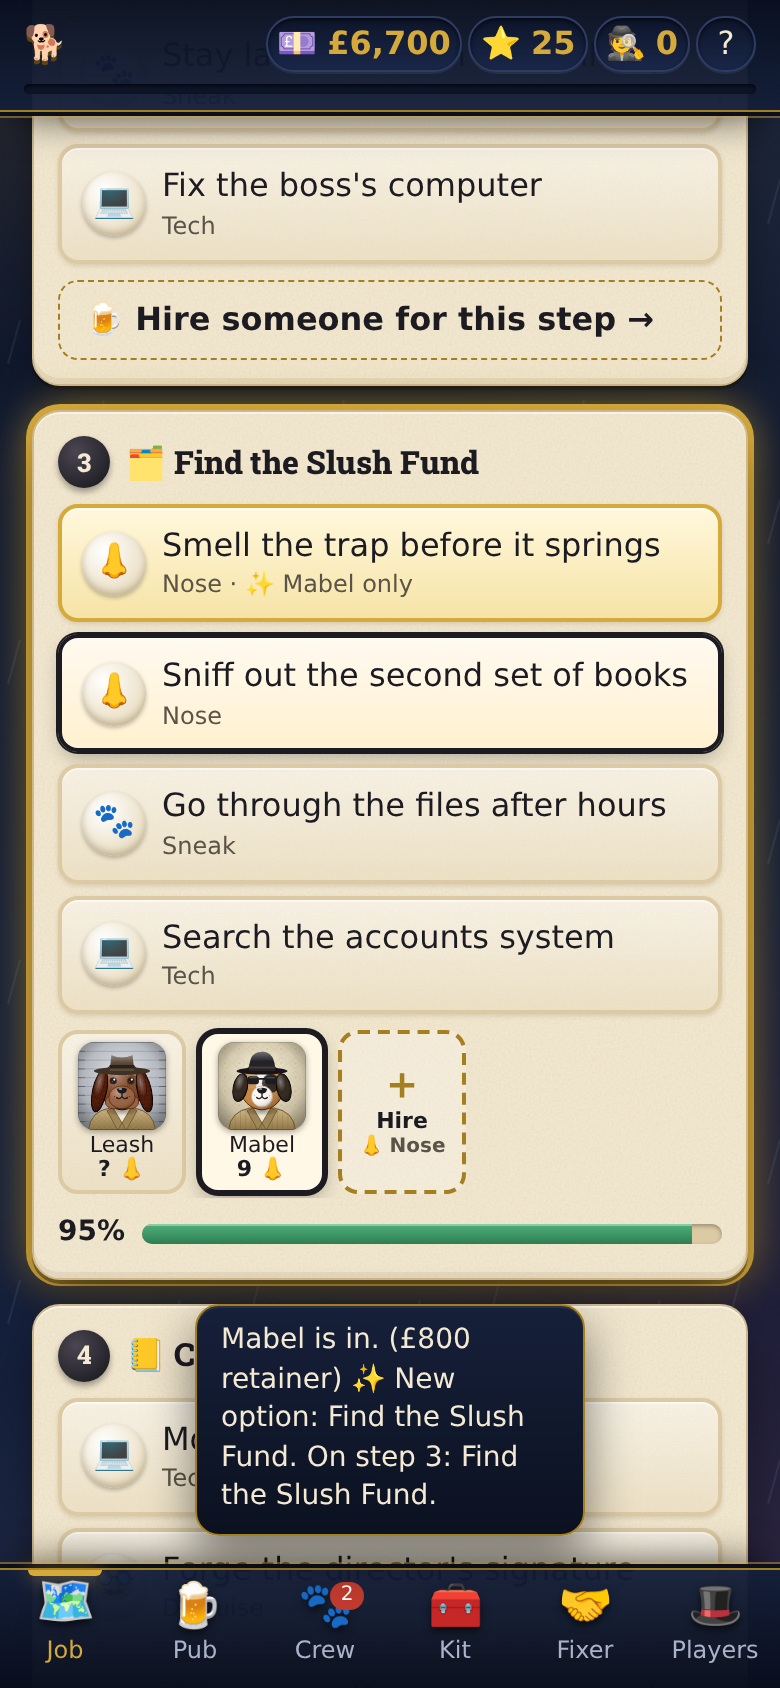
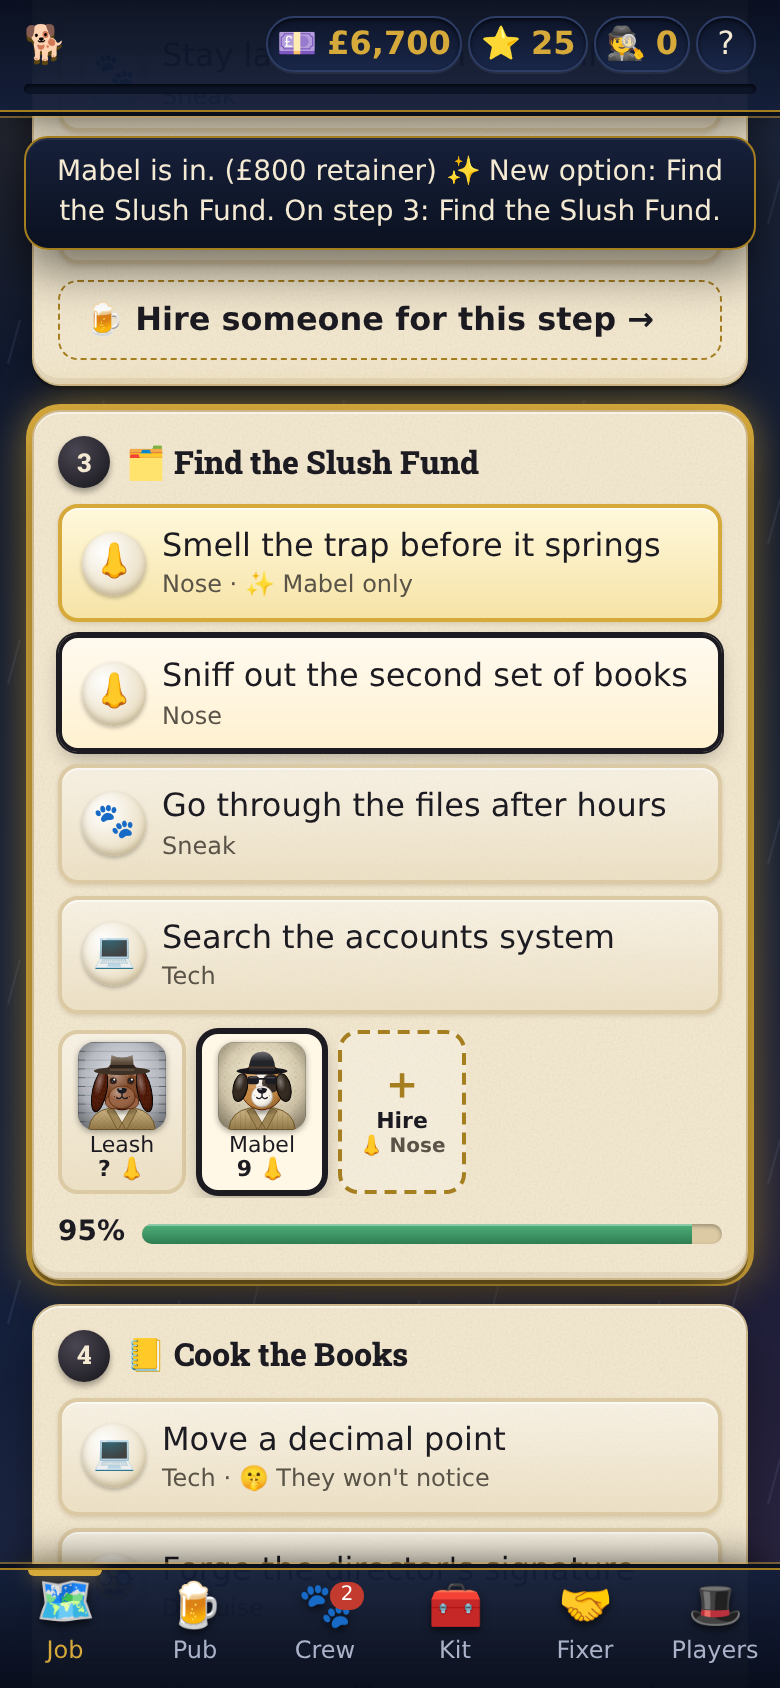
Toasts span the page and drop in under the top bar
They were centred with left: 50%, which capped them at half the screen
width, and sat over the bottom of the page when no sheet was open.

Claude-Session: https://claude.ai/code/session_0119DQBJUjuLkFW8ZZge45qz

Changed region(s): [[0.0308, 0.0616, 0.9846, 0.1848], [0.2154, 0.7701, 0.8, 0.9242]]

diff --git a/styles.css b/styles.css
@@ -234,8 +234,6 @@ p { margin: 0 0 8px; }
 .modal .portrait-big { width: 120px; height: 120px; border-radius: 16px; overflow: hidden; flex: none; box-shadow: 0 0 0 3px var(--ink), 0 6px 14px rgba(0, 0, 0, .4); }
 .pick-list .dog-card { box-shadow: none; border: 2px solid var(--paper-3); }
 .card-preview { display: block; width: 100%; max-width: 360px; margin: 0 auto 12px; border-radius: 14px; box-shadow: var(--shadow); }
-/* With a sheet open, toasts drop in from the top so they never cover its buttons. */
-.modal-open #toast { bottom: auto; top: calc(12px + env(safe-area-inset-top, 0px)); }
 
 /* ---------- compact dog profile */
 .dm-head { display: flex; gap: 12px; align-items: center; }
@@ -495,8 +493,10 @@ button.stat { font: inherit; color: inherit; cursor: pointer; }
 .story-text { font-family: var(--font-quote); font-style: italic; font-size: 16px; line-height: 1.55; margin: 8px 0 16px; }
 
 /* ---------- toast & diagnostics */
-#toast { position: fixed; left: 50%; bottom: 76px; transform: translateX(-50%); z-index: 60; max-width: min(92vw, 500px); pointer-events: none; }
-#toast .t { background: linear-gradient(180deg, #16203a, #0b1120); color: var(--paper); border: 1px solid var(--brass-dark); border-radius: 12px; padding: 8px 12px; margin-top: 6px; box-shadow: inset 0 1px 0 rgba(255, 255, 255, .08), 0 10px 24px rgba(0, 0, 0, .5); font-size: 14px; animation: pop .2s ease-out, fade .4s ease-in 2.4s forwards; }
+/* Toasts drop in just under the top bar, as wide as the page, so they never cover
+   the buttons at the bottom of the screen or of a sheet. */
+#toast { position: fixed; top: calc(62px + env(safe-area-inset-top, 0px)); left: 12px; right: 12px; max-width: 516px; margin: 0 auto; z-index: 60; pointer-events: none; }
+#toast .t { text-align: center; background: linear-gradient(180deg, #16203a, #0b1120); color: var(--paper); border: 1px solid var(--brass-dark); border-radius: 12px; padding: 8px 12px; margin-top: 6px; box-shadow: inset 0 1px 0 rgba(255, 255, 255, .08), 0 10px 24px rgba(0, 0, 0, .5); font-size: 14px; animation: pop .2s ease-out, fade .4s ease-in 2.4s forwards; }
 #toast .t.bad { border-color: var(--red); }
 @keyframes fade { to { opacity: 0; } }
 #diag { position: fixed; top: 4px; left: 4px; z-index: 100; background: rgba(0, 0, 0, .78); color: #7CFC9A; font: 11px/1.3 ui-monospace, Menlo, monospace; padding: 6px 8px; border-radius: 6px; pointer-events: none; max-width: 70vw; white-space: pre-wrap; }

diff --git a/src/version.js b/src/version.js
@@ -1,3 +1,3 @@
 // The game's version, shown in the help panel. Keep package.json's "version" in step
 // (tests/version.test.mjs checks). Bump it with each release to main.
-export const VERSION = '0.16.0';
+export const VERSION = '0.16.1';

diff --git a/notes/progress.md b/notes/progress.md
@@ -92,7 +92,12 @@ report 0 (DOM/SVG renderer), `renderer` is the WebGL renderer string, `contextLo
 - Job board venue illustrations; title skyline; blueprint with corridors, walked route, pulsing current room, red alarm wash, siren lights when the police arrive, and a drawing title block.
 - Before/after captures: `notes/captures/before-gfx/` vs `notes/captures/`.
 
-## Crew chemistry, rescues, out of town, recruit to case (latest, 0.16.0)
+## Toasts up top (latest, 0.16.1)
+
+- Toasts were centred with `left: 50%`, which capped their width at half the screen (195px on a phone, four lines for a hire), and sat at the bottom unless a sheet was open. Now they span the page column (max 516px) and always drop in just under the top bar, so they never cover the bottom buttons or a sheet's actions.
+- Smoke 1c checks the toast is page-wide and in the top half. Verified at 390x844, 375x667 and 1024x768 (hire from a profile, hire for a step, recruit to case). Not verified on a real notched phone (safe-area inset is in the offset).
+
+## Crew chemistry, rescues, out of town, recruit to case (0.16.0)
 - **Bonds** (`src/bonds.js`, `state.bonds`, keyed by sorted dog-id pair): start where outfits put them (same outfit +15, rival outfits -30, else 0); after each job every pair on it moves by the outcome (clean +8 … bust -6) plus 2 per step pulled off and -3 per step bungled (capped ±15); grassing or doing a runner on your mates sets -35; going back for a mate +25 (+30 if it worked). Aftermath lines for pairs crossing into "get on well" (25+) or "aren't speaking" (-20 or less) and for rescues.
 - **Chemistry on a job** (`bonds.chemistry` in `sim.odds`): average bond with the rest of the crew → up to +8% odds among friends, down to -10% among enemies; a leader cuts the bad side by 15% a level. The step odds on the plan include it.
 - **Visible**: a 🤝 Crew chemistry panel on the plan (💢/💚 pairs, "The leader keeps a lid on it"); 💢/💚 chips naming crewmates on dog cards while planning (pub, book, crew); "Gets on with" on the profile; a help entry.
